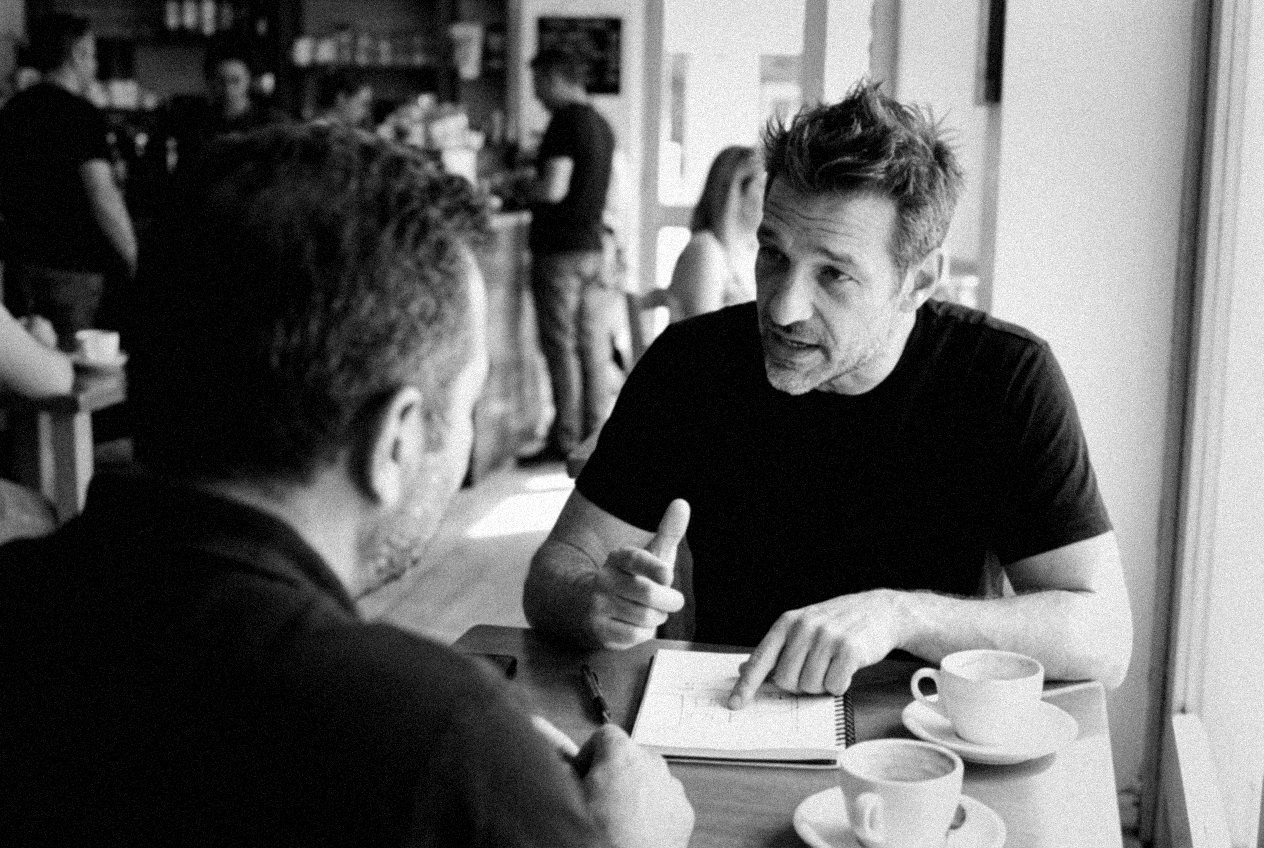
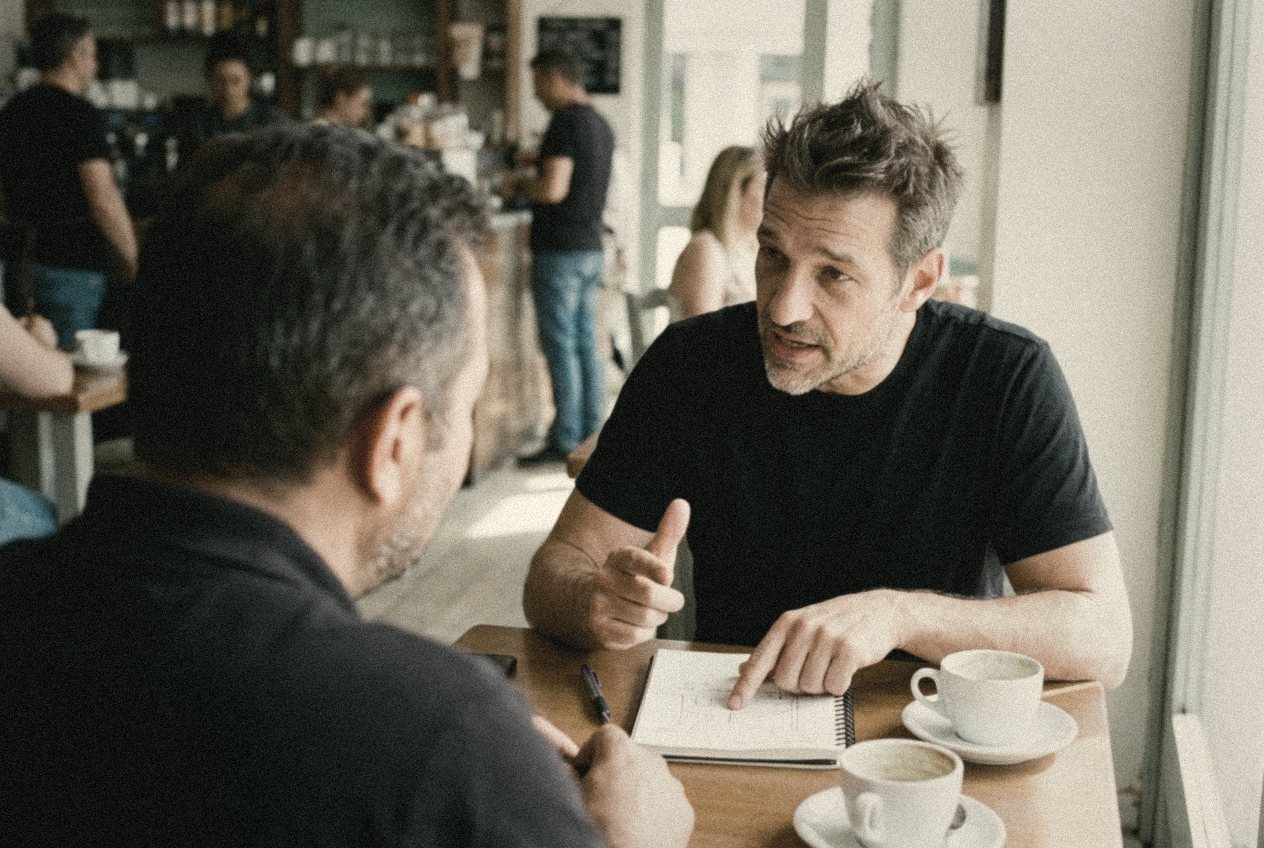
Warm muted colour photos, new working shots (building and handing over the tool)
Claude-Session: https://claude.ai/code/session_016q8vSYpw5PmLPt5F3fnn3k

diff --git a/index.html b/index.html
@@ -48,7 +48,7 @@
           <a class="btn btn-line" href="/metode/">El mètode DOA</a>
         </div>
       </div>
-      <figure class="hero-photo"><img src="/assets/photos/cafe-equip.jpg" alt="En Dani explicant un esquema en una llibreta a dos emprenedors en un cafè" width="1264" height="848"></figure>
+      <figure class="hero-photo"><img src="/assets/photos/botiga-portatil.jpg" alt="En Dani ensenyant al portàtil l'eina que ha construït a la propietària d'una botiga" width="1264" height="848"></figure>
     </section>
     <div class="stats">
         <div class="stat"><b>30+</b><span>apps mòbils, webs, agents i taulers construïts</span></div>
@@ -206,9 +206,9 @@
     <div class="label">Així treballem</div>
     <h2 class="h2" style="margin-top:12px">A la taula del teu negoci, no darrere d'una pantalla.</h2>
     <div class="photos photos-3">
-      <figure class="photo"><img src="/assets/photos/bar-mobil.jpg" alt="En Dani revisant amb la propietària d'un bar una eina al mòbil" width="1264" height="848" loading="lazy"></figure>
-      <figure class="photo"><img src="/assets/photos/llibreta.jpg" alt="Mans dibuixant el procés d'un negoci en una llibreta" width="1264" height="848" loading="lazy"></figure>
-      <figure class="photo"><img src="/assets/photos/cafe-clienta.jpg" alt="En Dani ensenyant un esquema a una clienta en un cafè" width="1264" height="848" loading="lazy"></figure>
+      <figure class="photo"><img src="/assets/photos/cafe-clienta.jpg" alt="En Dani escoltant una clienta i dibuixant el seu negoci en una llibreta" width="1264" height="848" loading="lazy"><figcaption>Escoltar el teu negoci</figcaption></figure>
+      <figure class="photo"><img src="/assets/photos/construint.jpg" alt="En Dani treballant a l'ordinador en un espai de treball" width="1264" height="848" loading="lazy"><figcaption>Construir la teva eina</figcaption></figure>
+      <figure class="photo"><img src="/assets/photos/cafeteria-portatil.jpg" alt="En Dani ensenyant el panell a la propietària d'una cafeteria" width="1264" height="848" loading="lazy"><figcaption>Ensenyar-te a fer-la servir</figcaption></figure>
     </div>
   </section>
 

diff --git a/assets/styles.css b/assets/styles.css
@@ -201,7 +201,7 @@ a.card .mono { margin-top: auto; }
 /* About */
 .about { display: flex; flex-wrap: wrap; gap: 48px; align-items: stretch; }
 .about figure { flex: 1 1 340px; margin: 0; }
-.about img { width: 100%; aspect-ratio: 4 / 5; object-fit: cover; border-radius: 24px; filter: grayscale(1); }
+.about img { width: 100%; aspect-ratio: 4 / 5; object-fit: cover; border-radius: 24px; filter: saturate(.55) sepia(.12); }
 .about .text { flex: 1.3 1 440px; display: flex; flex-direction: column; gap: 20px; }
 .about .text p { margin: 0; font-size: 18px; line-height: 1.6; color: var(--body-muted); }
 .statement { font-size: 24px !important; line-height: 1.35 !important; font-weight: 700; letter-spacing: -0.015em; color: var(--ink) !important; border-top: 2px solid var(--ink); padding-top: 20px; margin-top: 8px !important; }
@@ -287,7 +287,7 @@ a.card .mono { margin-top: auto; }
 .hero-split .h1 { font-size: clamp(44px, 6.2vw, 92px); }
 .hero-split .lead { margin: 28px 0 36px; }
 .hero-photo { flex: 1 1 380px; margin: 0; }
-.hero-photo img { width: 100%; height: auto; aspect-ratio: 4 / 5; object-fit: cover; object-position: 60% center; border-radius: 24px; }
+.hero-photo img { width: 100%; height: auto; aspect-ratio: 4 / 5; object-fit: cover; object-position: 52% center; border-radius: 24px; }
 .top .stats { margin-top: 24px; border-top: 2px solid var(--ink); }
 .top .stat { border-bottom: 1px solid var(--lines); }
 .top .stat span { color: var(--body-muted); }
@@ -295,3 +295,4 @@ a.card .mono { margin-top: auto; }
 .top > .wrap { padding-bottom: 8px; }
 .photos-3 { grid-template-columns: repeat(auto-fit, minmax(min(100%, 300px), 1fr)); }
 .photos-3 .photo img { aspect-ratio: 4 / 5; }
+.photo figcaption { margin-top: 12px; font-size: 15px; font-weight: 600; color: var(--body-muted); }

diff --git a/metode/index.html b/metode/index.html
@@ -115,6 +115,10 @@
       <li class="is-dark"><span class="doa-letter">A</span><b>Automatitzar</b><p>Ho construïm, ho posem tot a nom teu i t'ensenyem a fer-ho servir. Funciona sol mentre tu fas la teva feina.</p></li>
     </ol>
     <p class="mono" style="margin-top:20px">No es publica ni s'envia res sense el teu sí.</p>
+    <div class="photos">
+      <figure class="photo"><img src="/assets/photos/construint-2.jpg" alt="En Dani construint una eina a l'ordinador, amb la llibreta i el mòbil al costat" width="1264" height="848" loading="lazy"><figcaption>A · Construïm l'eina a partir del que hem decidit</figcaption></figure>
+      <figure class="photo"><img src="/assets/photos/botiga-portatil.jpg" alt="En Dani ensenyant l'eina a la propietària d'una botiga" width="1264" height="848" loading="lazy"><figcaption>I t'ensenyem a fer-la servir, al teu negoci</figcaption></figure>
+    </div>
   </section>
 
   <section class="wrap section">

diff --git a/README.md b/README.md
@@ -46,7 +46,7 @@ Not shown: MDO, SUMA Llar, Puerto, Prego, Ajudes Clares, My Digital Me, Matchday
 - Shapes: 16–24 px radii on cards, pill buttons, 44 px minimum touch targets, max width 1240 px
 - Forbidden: gradients, purple/blue tech palettes, glassmorphism, emoji, stock photos of people, left-border accent cards, sparkle or robot icons
 - Logo: three blocks D (outline) · O (accent) · A (solid) + "Labs" (`.mk` in styles.css); with the method line Diagnosticar · Ordenar · Automatitzar for documents. Favicon: the orange O block.
-- Images: real screenshots of each project; real photo of Dani. Placeholder scene photos in `assets/photos/` (AI-generated, black and white with grain) until real ones are taken
+- Images: real screenshots of each project; real photo of Dani. Placeholder scene photos in `assets/photos/` (AI-generated, warm muted colour with grain) until real ones are taken
 
 ## Voice
 Plain and practical, one business owner to another. Concrete numbers, euros, hours, real screens. Never: revolucionar, disruptiu, "potenciat per IA" as a headline, SaaS/ERP/LLM jargon.
